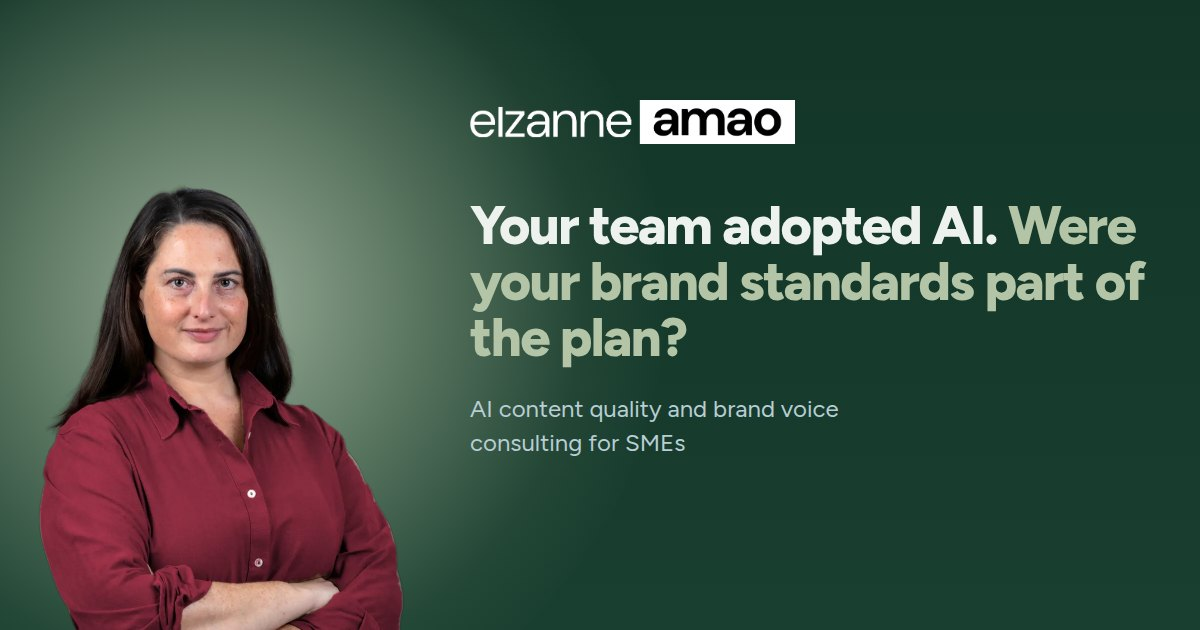
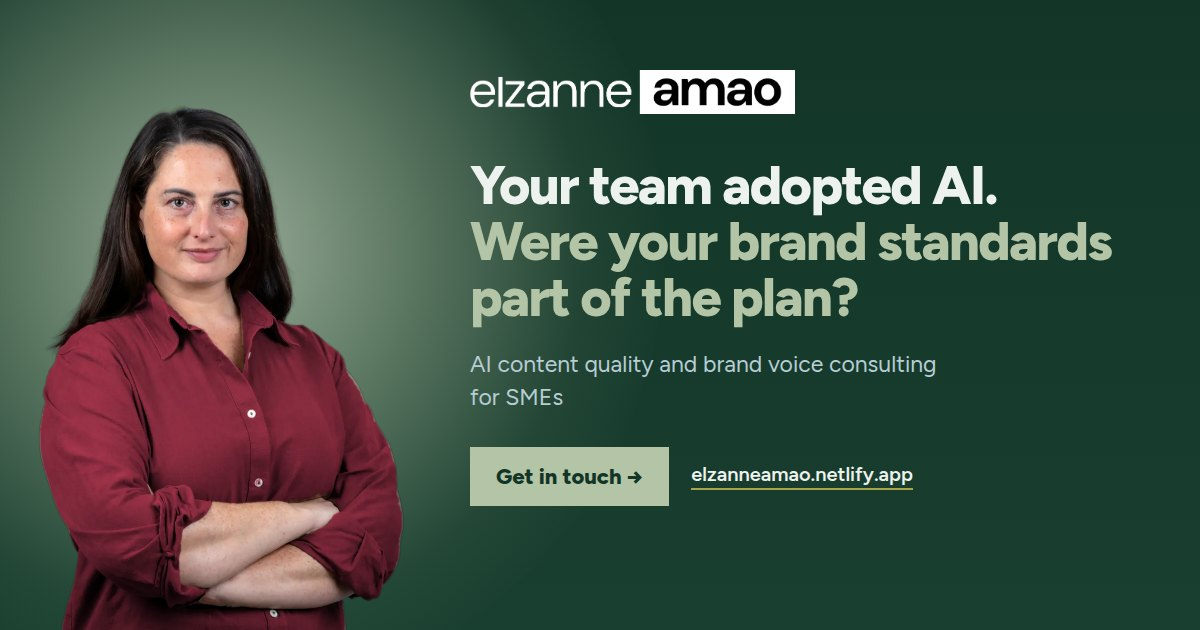
Send every page's enquiry to the single contact form; refine link preview image
All seven forms now submit as the Netlify form "contact" with a hidden
"page" field naming where the enquiry came from, so submissions share
one form and its notifications. The preview image moves the portrait up,
breaks the headline before "Were", and adds a Get in touch button.

Claude-Session: https://claude.ai/code/session_01W2eg56KgkHtMgtU5HhNPaQ

diff --git a/ai-integrated-content-system-design.html b/ai-integrated-content-system-design.html
@@ -101,7 +101,7 @@
 <link rel="preconnect" href="https://fonts.googleapis.com">
   <link rel="preconnect" href="https://fonts.gstatic.com" crossorigin>
 <link href="https://fonts.googleapis.com/css2?family=Figtree:wght@400..800&display=swap" rel="stylesheet">
-<link rel="stylesheet" href="site.css?v=12">
+<link rel="stylesheet" href="site.css?v=13">
 <style>
   /* Page styles live in site.css (Service pages section) */
 </style>
@@ -277,8 +277,9 @@
         <h2>Ready to build something that works?</h2>
         <p class="sub">Tell me where you are in the process and what your content operation looks like. I'll let you know whether this is the right next step.</p>
       </div>
-      <form name="enquiry-system-design" method="POST" data-netlify="true" class="reveal">
-        <input type="hidden" name="form-name" value="enquiry-system-design">
+      <form name="contact" method="POST" data-netlify="true" class="reveal">
+        <input type="hidden" name="form-name" value="contact">
+        <input type="hidden" name="page" value="AI-integrated content system design">
         <div class="form-row">
           <div class="field">
             <label for="sd-name">Full name</label>
@@ -329,6 +330,6 @@
   </div>
 </footer>
 
-<script src="site.js?v=12"></script>
+<script src="site.js?v=13"></script>
 </body>
 </html>

diff --git a/ai-advisory-sme-leadership.html b/ai-advisory-sme-leadership.html
@@ -21,7 +21,7 @@
 <link rel="preconnect" href="https://fonts.googleapis.com">
   <link rel="preconnect" href="https://fonts.gstatic.com" crossorigin>
 <link href="https://fonts.googleapis.com/css2?family=Figtree:wght@400..800&display=swap" rel="stylesheet">
-<link rel="stylesheet" href="site.css?v=12">
+<link rel="stylesheet" href="site.css?v=13">
 <style>
   /* Page styles live in site.css (Service pages section) */
 </style>
@@ -123,8 +123,9 @@
         <h2>Not sure where to start?</h2>
         <p class="sub">You don't need to know what you need yet. Tell me what's going on with your content and AI, and we'll figure out whether this is the right fit.</p>
       </div>
-      <form name="enquiry-advisory" method="POST" data-netlify="true" class="reveal">
-        <input type="hidden" name="form-name" value="enquiry-advisory">
+      <form name="contact" method="POST" data-netlify="true" class="reveal">
+        <input type="hidden" name="form-name" value="contact">
+        <input type="hidden" name="page" value="AI advisory for SME leadership">
         <div class="form-row">
           <div class="field">
             <label for="adv-name">Full name</label>
@@ -175,6 +176,6 @@
   </div>
 </footer>
 
-<script src="site.js?v=12"></script>
+<script src="site.js?v=13"></script>
 </body>
 </html>

diff --git a/ai-content-operations-audit.html b/ai-content-operations-audit.html
@@ -101,7 +101,7 @@
 <link rel="preconnect" href="https://fonts.googleapis.com">
   <link rel="preconnect" href="https://fonts.gstatic.com" crossorigin>
 <link href="https://fonts.googleapis.com/css2?family=Figtree:wght@400..800&display=swap" rel="stylesheet">
-<link rel="stylesheet" href="site.css?v=12">
+<link rel="stylesheet" href="site.css?v=13">
 <style>
   /* Page styles live in site.css (Service pages section) */
 </style>
@@ -277,8 +277,9 @@
         <h2>Start with the audit</h2>
         <p class="sub">Tell me what's going on with your content. I'll confirm whether the audit is the right starting point and what the scope would look like.</p>
       </div>
-      <form name="enquiry-audit" method="POST" data-netlify="true" class="reveal">
-        <input type="hidden" name="form-name" value="enquiry-audit">
+      <form name="contact" method="POST" data-netlify="true" class="reveal">
+        <input type="hidden" name="form-name" value="contact">
+        <input type="hidden" name="page" value="AI content operations audit">
         <div class="form-row">
           <div class="field">
             <label for="audit-name">Full name</label>
@@ -329,6 +330,6 @@
   </div>
 </footer>
 
-<script src="site.js?v=12"></script>
+<script src="site.js?v=13"></script>
 </body>
 </html>

diff --git a/think-orion-case-study.html b/think-orion-case-study.html
@@ -49,7 +49,7 @@
 <link rel="preconnect" href="https://fonts.googleapis.com">
 <link rel="preconnect" href="https://fonts.gstatic.com" crossorigin>
 <link href="https://fonts.googleapis.com/css2?family=Figtree:wght@400..800&display=swap" rel="stylesheet">
-<link rel="stylesheet" href="site.css?v=12">
+<link rel="stylesheet" href="site.css?v=13">
 <style>
   /* Case study page styles. Shared styles are in site.css */
   .body-section{padding:112px 0}
@@ -194,8 +194,9 @@
         <h2>Get in touch</h2>
         <p class="sub">Tell me what's going on with your content. I'll let you know whether I can help and what the right next step is.</p>
       </div>
-      <form name="enquiry-think-orion" method="POST" data-netlify="true" class="reveal">
-        <input type="hidden" name="form-name" value="enquiry-think-orion">
+      <form name="contact" method="POST" data-netlify="true" class="reveal">
+        <input type="hidden" name="form-name" value="contact">
+        <input type="hidden" name="page" value="Think Orion case study">
         <div class="form-row">
           <div class="field">
             <label for="to-name">Full name</label>
@@ -226,6 +227,6 @@
   </div>
 </footer>
 
-<script src="site.js?v=12"></script>
+<script src="site.js?v=13"></script>
 </body>
 </html>

diff --git a/inscape-case-study.html b/inscape-case-study.html
@@ -45,7 +45,7 @@
 <link rel="preconnect" href="https://fonts.googleapis.com">
 <link rel="preconnect" href="https://fonts.gstatic.com" crossorigin>
 <link href="https://fonts.googleapis.com/css2?family=Figtree:wght@400..800&display=swap" rel="stylesheet">
-<link rel="stylesheet" href="site.css?v=12">
+<link rel="stylesheet" href="site.css?v=13">
 <style>
   /* Case study page styles. Shared styles are in site.css */
   .cs-section{padding:0 0 96px}
@@ -248,8 +248,9 @@
         <h2>Get in touch</h2>
         <p class="sub">Tell me what's going on with your content. I'll let you know whether I can help and what the right next step is.</p>
       </div>
-      <form name="enquiry-inscape" method="POST" data-netlify="true" class="reveal">
-        <input type="hidden" name="form-name" value="enquiry-inscape">
+      <form name="contact" method="POST" data-netlify="true" class="reveal">
+        <input type="hidden" name="form-name" value="contact">
+        <input type="hidden" name="page" value="Inscape case study">
         <div class="form-row">
           <div class="field">
             <label for="in-name">Full name</label>
@@ -280,6 +281,6 @@
   </div>
 </footer>
 
-<script src="site.js?v=12"></script>
+<script src="site.js?v=13"></script>
 </body>
 </html>

diff --git a/about.html b/about.html
@@ -43,7 +43,7 @@
 <link rel="preconnect" href="https://fonts.googleapis.com">
 <link rel="preconnect" href="https://fonts.gstatic.com" crossorigin>
 <link href="https://fonts.googleapis.com/css2?family=Figtree:wght@400..800&display=swap" rel="stylesheet">
-<link rel="stylesheet" href="site.css?v=12">
+<link rel="stylesheet" href="site.css?v=13">
 <style>
   /* About page styles. Shared styles are in site.css */
   .about-hero{padding:0;overflow:hidden}
@@ -150,8 +150,9 @@
         <h2>Get in touch</h2>
         <p class="sub">Your team is using AI for content but the output doesn't feel right. I help you figure out why and what to change.</p>
       </div>
-      <form name="contact-about" method="POST" data-netlify="true" class="reveal">
-        <input type="hidden" name="form-name" value="contact-about">
+      <form name="contact" method="POST" data-netlify="true" class="reveal">
+        <input type="hidden" name="form-name" value="contact">
+        <input type="hidden" name="page" value="About">
         <div class="form-row">
           <div class="field">
             <label for="about-name">Full name</label>
@@ -182,6 +183,6 @@
   </div>
 </footer>
 
-<script src="site.js?v=12"></script>
+<script src="site.js?v=13"></script>
 </body>
 </html>

diff --git a/index.html b/index.html
@@ -133,7 +133,7 @@
 <link rel="preconnect" href="https://fonts.googleapis.com">
 <link rel="preconnect" href="https://fonts.gstatic.com" crossorigin>
 <link href="https://fonts.googleapis.com/css2?family=Figtree:wght@400..800&display=swap" rel="stylesheet">
-<link rel="stylesheet" href="site.css?v=12">
+<link rel="stylesheet" href="site.css?v=13">
 <style>
   /* Homepage-only styles. Shared styles are in site.css */
   .hero-band{overflow:hidden;padding:96px 0 0;background:linear-gradient(180deg,var(--night) 0%,var(--night-2) 100%)}
@@ -480,6 +480,7 @@
       </div>
       <form name="contact" method="POST" data-netlify="true" class="reveal">
         <input type="hidden" name="form-name" value="contact">
+        <input type="hidden" name="page" value="Homepage">
         <div class="form-row">
           <div class="field">
             <label for="name">Full name</label>
@@ -510,6 +511,6 @@
   </div>
 </footer>
 
-<script src="site.js?v=12"></script>
+<script src="site.js?v=13"></script>
 </body>
 </html>
